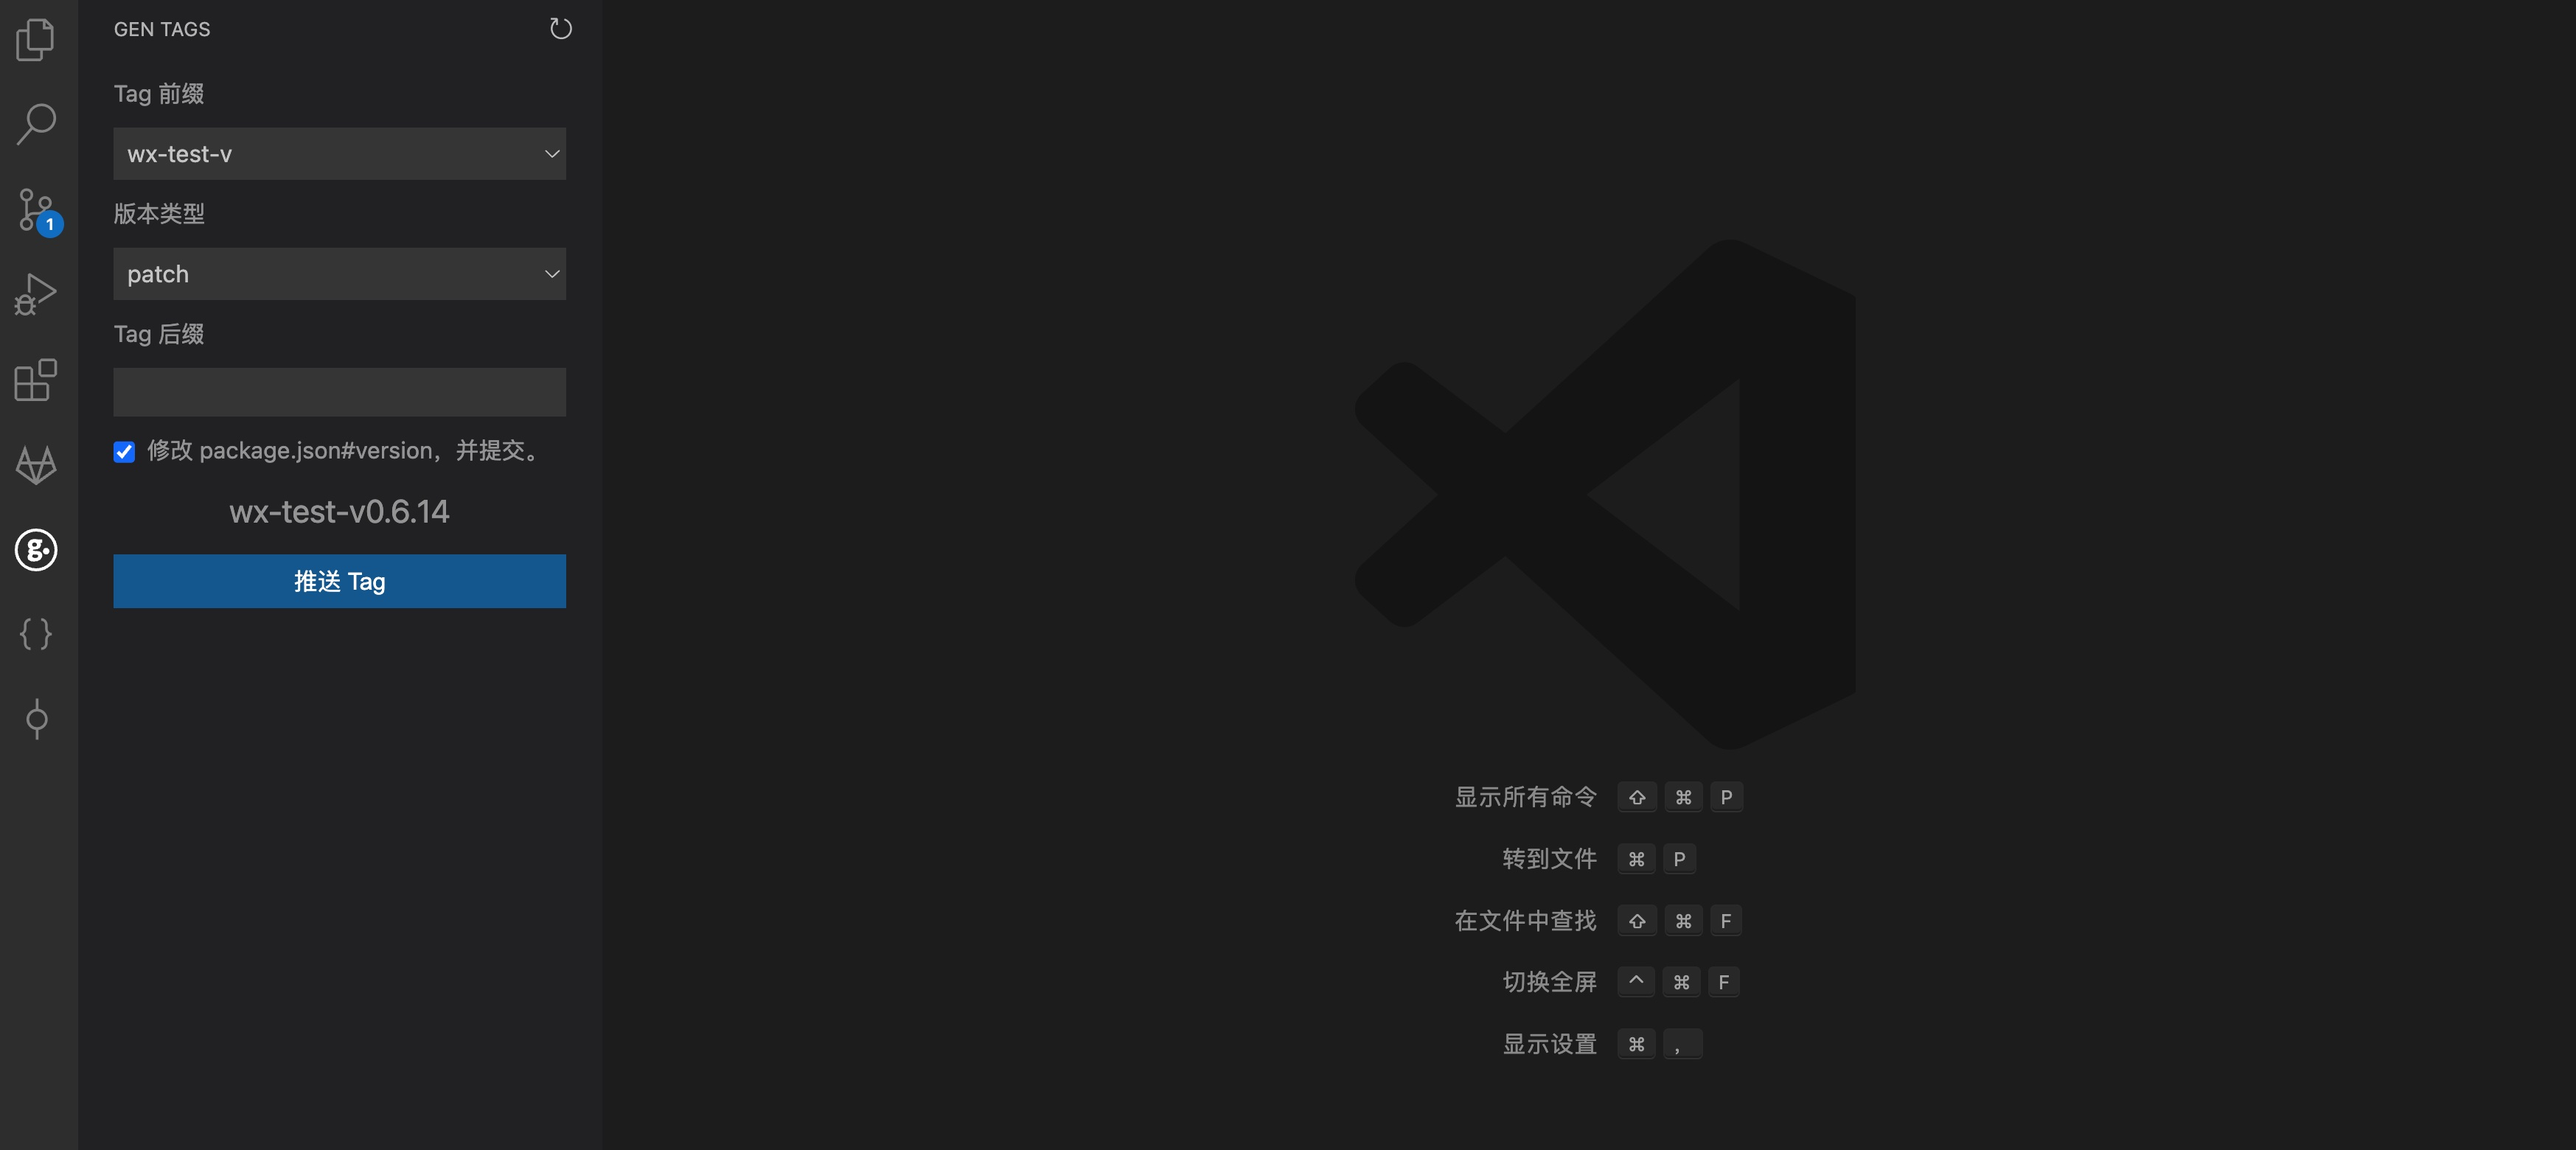
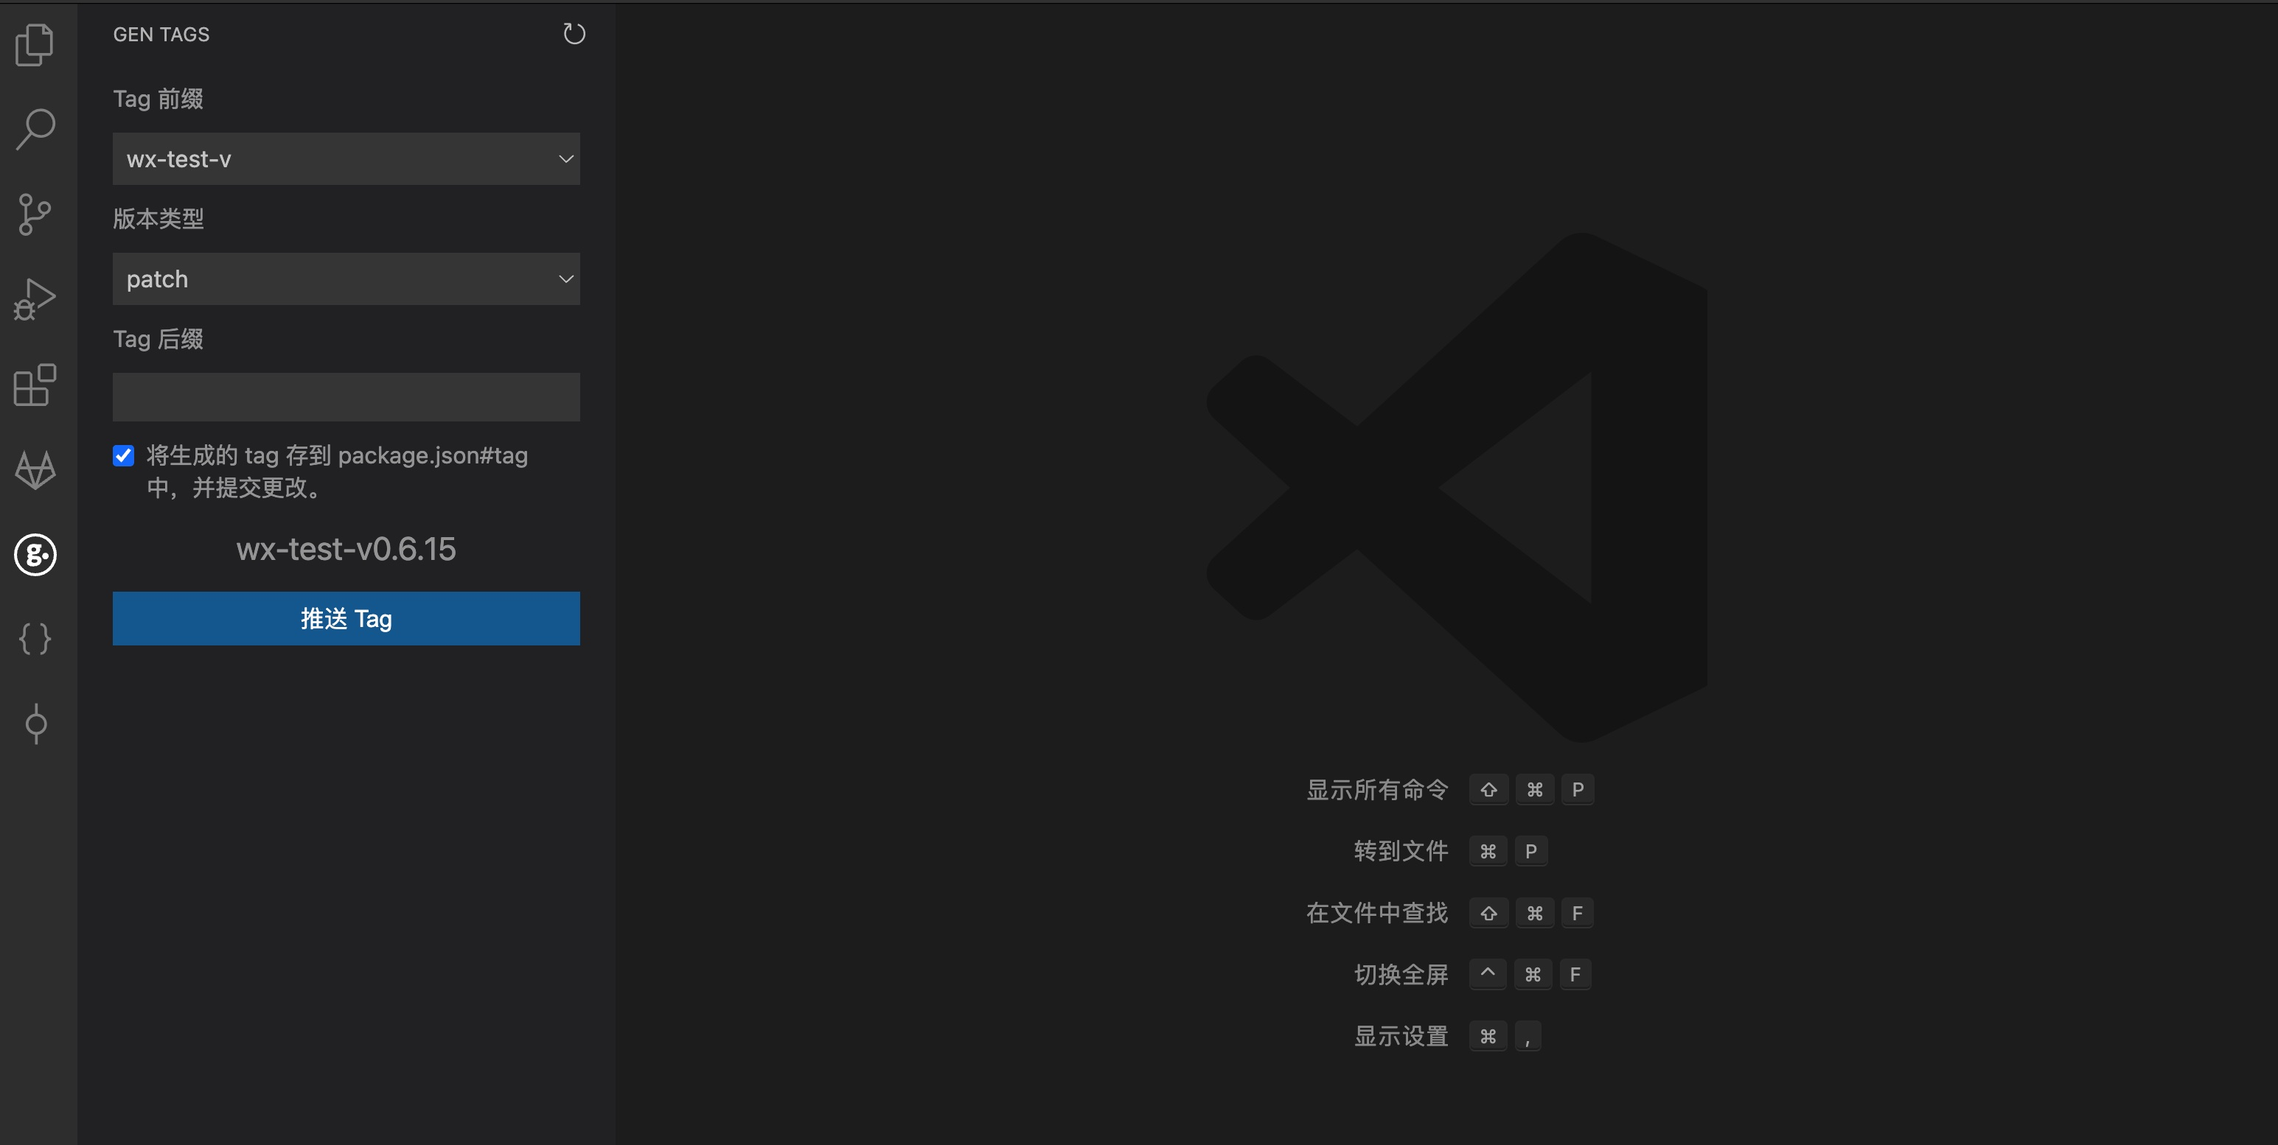
修改设置pkg的字段为tag

diff --git a/src/provider.ts b/src/provider.ts
@@ -17,16 +17,16 @@ export default class TagProvider implements vscode.WebviewViewProvider {
         prefix: string;
         suffix: string;
         versionType: string;
-        editVersion: boolean;
+        editPkg: boolean;
     } = {
         prefix: '',
         suffix: '',
         versionType: 'patch',
-        editVersion: true,
+        editPkg: true,
     };
     public newTag: string = '';
     private initLoading: any;
-    private pkgContent: string = '';
+    private pkgContent: any = {};
     
     constructor(private readonly _extensionUri: vscode.Uri) {}
 
@@ -51,7 +51,7 @@ export default class TagProvider implements vscode.WebviewViewProvider {
                     break;
                 case 'formChange':
                     this.formData = msg.data;
-                    this.genVersion();
+                    this.genTag();
                     break;
                 case 'submit':
                     this.handleSubmit();
@@ -100,8 +100,8 @@ export default class TagProvider implements vscode.WebviewViewProvider {
                     <p class="tags-label">Tag 后缀</p>
                     <input id="suffix" class="tags-title form" type="text" name="tag_suffix" />
                     <div class="tags-checkbox">
-                        <input id="editVersion" class="checkbox" checked type="checkbox" name="edit_version">
-                        <label for="editVersion">修改 package.json#version，并提交。</label>
+                        <input id="editPkg" class="checkbox" checked type="checkbox" name="edit_pkg">
+                        <label for="editPkg">将生成的 tag 存到 package.json#tag 中，并提交更改。</label>
                     </div>
                     <p class="tag-value" id="tag"></p>
 
@@ -132,10 +132,10 @@ export default class TagProvider implements vscode.WebviewViewProvider {
             this.initLoading = null;
         }
         this.initLoading = await withProgress('Gen Tags: 初始化...');
-        this.pkgContent = await this.optFile('./package.json') || '';
+        const pkgStr = await this.optFile('./package.json') || '';
         try {
-            const json = JSON.parse(this.pkgContent);
-            const prefix = json['tagPrefix'] || [];
+            this.pkgContent = JSON.parse(pkgStr);
+            const prefix = this.pkgContent['tagPrefix'] || [];
             this.postMsg('prefixOptions', prefix);
         } catch (e) {
             log('package.json 解析失败');
@@ -170,7 +170,7 @@ export default class TagProvider implements vscode.WebviewViewProvider {
                     .filter(item => item.type === 2 && item.name !== undefined)
                     .map(item => item.name as string);
                     this.initLoading.res();
-                this.genVersion();
+                this.genTag();
             });
         }).catch(() => {
             this.initLoading.res();
@@ -237,7 +237,7 @@ export default class TagProvider implements vscode.WebviewViewProvider {
         return tag || '0.0.0';
     }
     
-    genVersion() {
+    genTag() {
         const { prefix, suffix, versionType } = this.formData;
         let version = this.latestTag(this.tags);
         const updateIndex = ['major', 'minor', 'patch'].indexOf(versionType);
@@ -260,13 +260,13 @@ export default class TagProvider implements vscode.WebviewViewProvider {
         const p = await withProgress('Gen Tags: 推送 Tag...');
         let msg = '操作失败';
         try {
-            if (this.formData.editVersion) {
-                msg = 'package.json#version 更新失败';
-                // 以字符串的形式替换，确保代码格式不变
-                this.optFile('./package.json', this.pkgContent.replace(/("version"\s*:\s*")([^"]*)(")/, `$1${this.newTag}$3`));
+            if (this.formData.editPkg) {
+                msg = 'package.json#tag 设置失败';
+                this.pkgContent.tag = this.newTag;
+                this.optFile('./package.json', JSON.stringify(this.pkgContent, null, 4));
                 const fullPath = this.getWorkspaceFilePath('package.json');
                 await this.repo?.add([fullPath]);
-                await this.repo?.commit('build: update package.json#version').catch(() => {
+                await this.repo?.commit('build: update package.json#tag').catch(() => {
                     msg = '提交 package.json 失败';
                 });
             }

diff --git a/src/assets/main.js b/src/assets/main.js
@@ -11,14 +11,14 @@
     const prefixDom = query('#prefix');
     const suffixDom = query('#suffix');
     const versionTypeDom = query('#versionType');
-    const editVersionDom = query('#editVersion');
+    const editPkgDom = query('#editPkg');
     const submitBtn = query('#submitBtn');
 
     const formData = {
         prefix: '',
         suffix: '',
         versionType: 'patch',
-        editVersion: true,
+        editPkg: true,
     };
     const updateForm = () => postMsg('formChange', formData);
 
@@ -34,8 +34,8 @@
         formData.versionType = versionTypeDom.value;
         updateForm();
     });
-    editVersionDom.addEventListener('change', () => {
-        formData.editVersion = editVersionDom.checked;
+    editPkgDom.addEventListener('change', () => {
+        formData.editPkg = editPkgDom.checked;
         updateForm();
     });
     submitBtn.addEventListener('click', () => {

diff --git a/src/assets/main.css b/src/assets/main.css
@@ -20,9 +20,10 @@ body {
 .tags-checkbox {
     display: flex;
     margin: 10px 0;
+    align-items: start;
 }
 .tags-checkbox input {
-    margin: 2px 6px 0 0;
+    margin: 3px 6px 0 0;
     cursor: pointer;
 }
 .tags-checkbox label {

diff --git a/README.md b/README.md
@@ -1,4 +1,4 @@
-# gen-tags README
+# Gen Tags
 
 用于快速生成和推送 tag。
 
@@ -26,13 +26,6 @@
 
 Initial release of ...
 
-## Following extension guidelines
-
-Ensure that you've read through the extensions guidelines and follow the best practices for creating your extension.
-
-* [Extension Guidelines](https://code.visualstudio.com/api/references/extension-guidelines)
-
 ## For more information
 
-* [Visual Studio Code's Markdown Support](http://code.visualstudio.com/docs/languages/markdown)
-* [Markdown Syntax Reference](https://help.github.com/articles/markdown-basics/)
+* [VSCode Marketplace](https://marketplace.visualstudio.com/items?itemName=zhaoqing.gen-tags)
